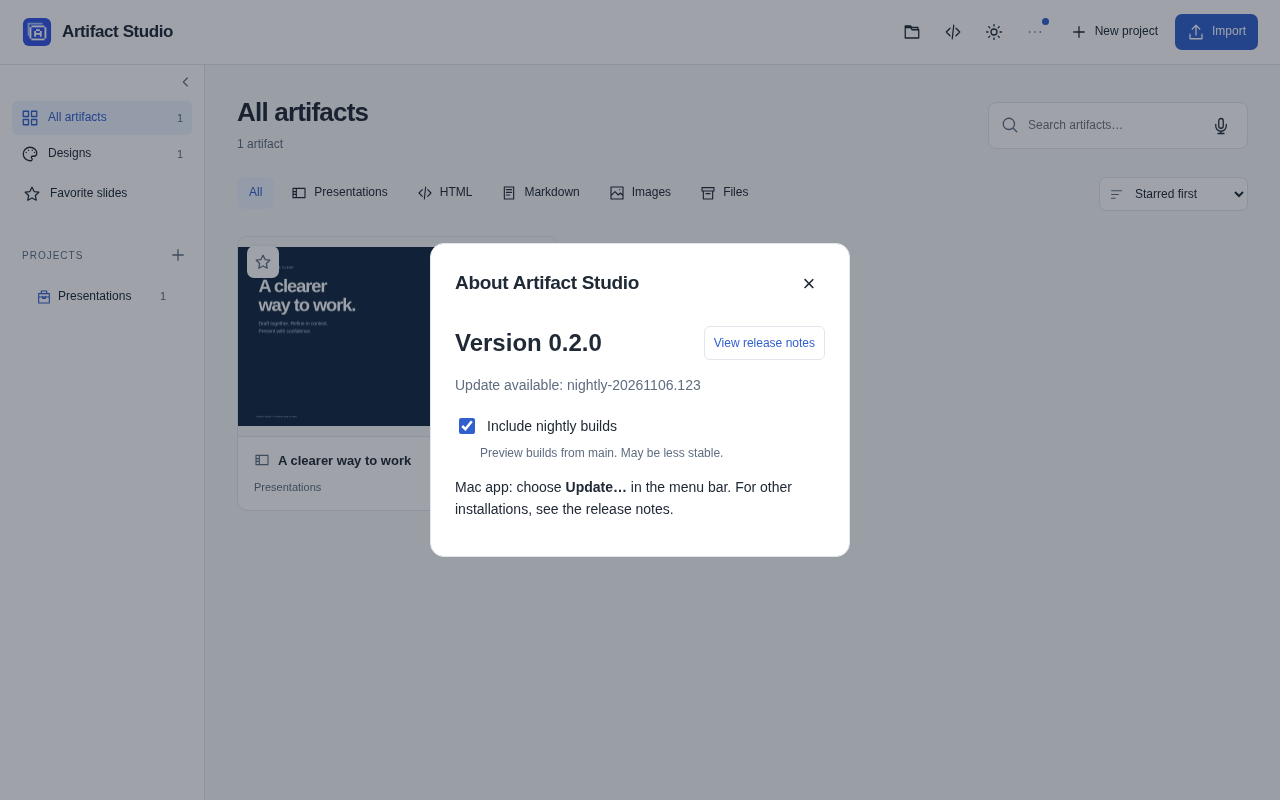
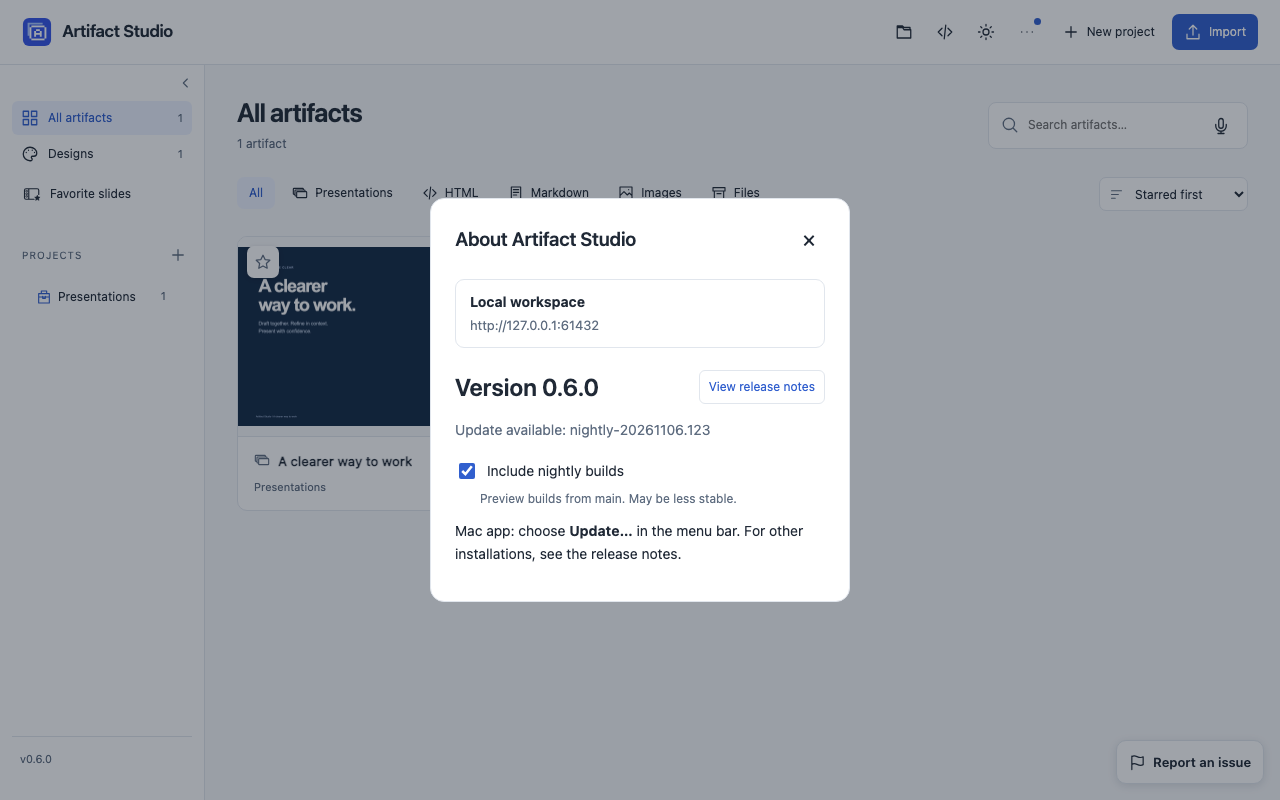
docs(ui): refresh version and server check screenshots

diff --git a/web/hub.html b/web/hub.html
@@ -72,7 +72,7 @@
       <button type="button" data-action="import" data-icon="upload" class="hub-primary">Import</button>
     </div>
     <div id="appearance-menu" class="appearance-menu" popover role="menu" aria-label="Appearance"><button type="button" data-appearance="light" role="menuitemradio" aria-checked="false">Light</button><button type="button" data-appearance="dark" role="menuitemradio" aria-checked="false">Dark</button><button type="button" data-appearance="system" role="menuitemradio" aria-checked="true">System</button></div>
-    <div id="hub-tools-menu" class="hub-tools-menu" popover><a href="/?editor=1&amp;new=1" data-new-presentation data-icon="slideAdd">New presentation</a><a href="/?editor=1" data-icon="slides">Presentation tools</a><a href="#connect" data-hub-connect aria-haspopup="dialog">Agent connection</a><a href="/web/copilot-setup.html" data-icon="plug">Microsoft 365 Copilot</a><a href="#about" data-app-about data-icon="info" aria-haspopup="dialog"><span>About Artifact Studio</span></a></div>
+    <div id="hub-tools-menu" class="hub-tools-menu" popover><a href="/?editor=1&amp;new=1" data-new-presentation data-icon="slideAdd">New presentation</a><a href="/?editor=1" data-icon="slides">Presentation tools</a><a href="#connect" data-hub-connect data-icon="plug" aria-haspopup="dialog">Agent connection</a><a href="/web/copilot-setup.html" data-icon="plug">Microsoft 365 Copilot</a><a href="#about" data-app-about data-icon="info" aria-haspopup="dialog"><span>About Artifact Studio</span></a></div>
   </header>
   <div id="hub-content"><main class="hub-loading" role="status">Loading your artifacts…</main></div>
   <div id="hub-toast" class="hub-toast" role="status" hidden></div>

diff --git a/docs/MACOS.md b/docs/MACOS.md
@@ -38,13 +38,13 @@ Closing a browser tab does not stop the server. Stopping or restarting the serve
 The Mac menu keeps the installed app's **Version** visible, including while the
 server is stopped. **Update…**, its download icon and the available tag appear
 only when a newer eligible release is found. The version row is otherwise plain,
-noninteractive information. In the web library or slide editor, choose
-**Menu → About Artifact Studio** for the running app version and release notes;
-a small blue dot on Menu indicates an available update. The menu-bar controller
-reads its installed bundle version; the web app reads the running server version.
-They normally match after updating the server and controller together.
+noninteractive information. In the web library or slide editor, select the
+version at the bottom of the left sidebar to open **About Artifact Studio** and
+see release notes. A blue dot on Menu indicates an available update. The menu-bar
+controller reads its installed bundle version. The web app reads the running server
+version. They normally match after updating the server and controller together.
 
-![Web menu with installed version and update indicator](screenshots/app-version-menu.png)
+![Library with the installed version in the sidebar and an update indicator on Menu](screenshots/app-version-menu.png)
 
 The [narrow About dialog](screenshots/app-version-mobile.png) also fits the editor.
 These captures use a fictional newer release to demonstrate the available-update state.

diff --git a/docs/HOSTED.md b/docs/HOSTED.md
@@ -64,7 +64,7 @@ External checks cover actual cookie scope, sign-in policy, firewall rules, tunne
 logging, backup recovery and operating-system resource limits. Your server
 administrator verifies these outside Studio.
 
-![Server checks separate warnings, unverified hosting settings and configured app protections.](assets/hosted-server-checks.png)
+![Server checks list warnings, external checks and configured app protections.](assets/hosted-server-checks.png)
 
 <details>
 <summary>Server checks on a phone</summary>
